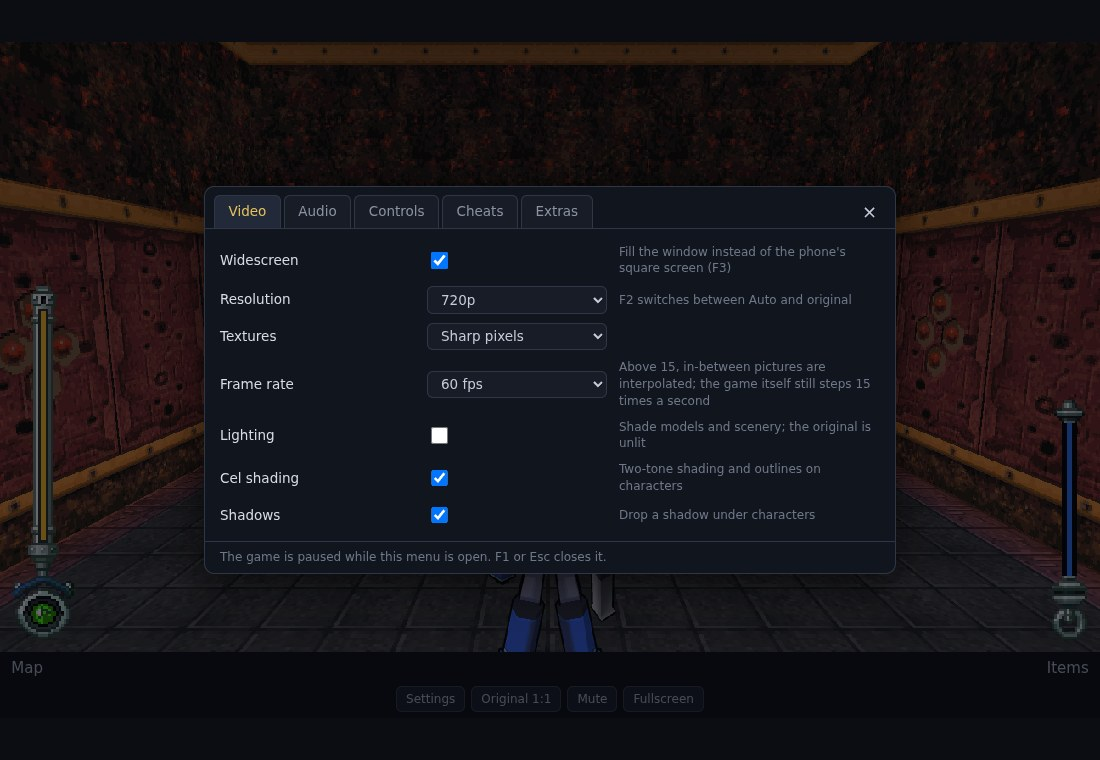
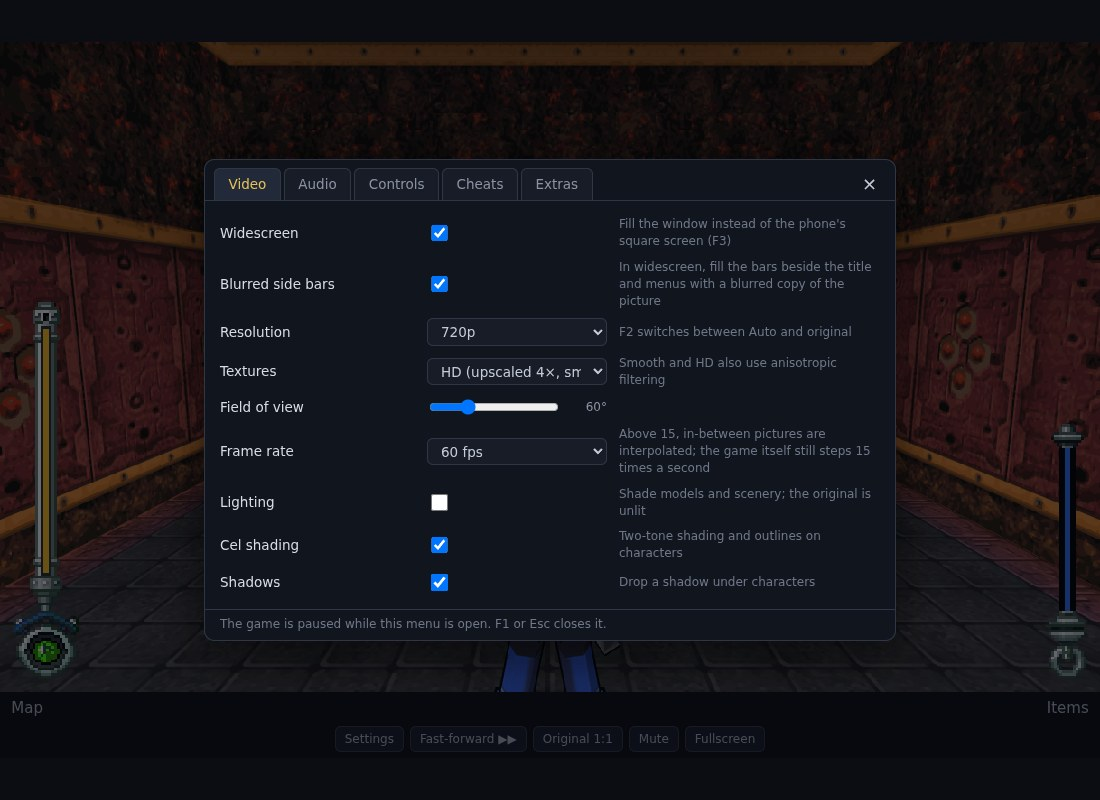
README: grouped feature list, new screenshots, controls and status brought up to date

diff --git a/README.md b/README.md
@@ -37,34 +37,53 @@ This project has three goals:
 
 ## What the port adds
 
-All of these are options in the settings menu (press **F1**); none change the game's rules.
+All of these are options in the settings menu (press **F1**, or the ⚙ button); none change the
+game's rules, and with everything off you get the phone's picture.
 
-- **Widescreen** — the 3D view fills the window; the life and weapon gauges move to the screen
-  edges.
+**Picture**
+
+- **Widescreen** — the 3D view fills the window and the life and weapon gauges move to the screen
+  edges. Screens that stay square (title, menus, map) get a blurred copy of the picture in the
+  side bars instead of black.
 - **High resolution** — sharp at any window size, or the original 240p if you prefer.
-- **Texture filtering** — original sharp pixels, smooth, or an upscaled "HD" mode.
-- **Blurred side bars** behind the title and menus in widescreen, instead of black.
 - **30 / 60 fps** — the game still thinks 15 times a second (every speed and timer in it is
   counted that way), so the in-between pictures are interpolated, the same way other recompiled
-  console ports do it.
-- **Free camera** — look around with the right stick or the mouse, with sensitivity, invert,
-  field of view and camera distance options.
+  console ports do it. Camera, objects and character animation are all smoothed.
+- **Texture filtering** — original sharp pixels, smooth, or an upscaled "HD" mode.
+- **Cel shading, lighting and shadows** — the original has no lighting at all.
+- **Field of view** and **camera distance** sliders.
+
+**Controls**
+
+- **Free camera** — look around with the right stick, by dragging the mouse, or with the mouse
+  captured (move to look, left button fires, right button locks on). Sensitivity and invert
+  options.
+- **Direct movement** — push the stick (or WASD) where you want to go, relative to the camera,
+  instead of turn-and-walk tank controls. The stick also sets your walking speed.
 - **Controller support** with rumble, and **rebindable** keyboard and controller buttons.
 - **Touch controls** — an on-screen stick and buttons, and swipe to look.
-- **Direct movement** — push the stick (or WASD) where you want to go, relative to the camera,
-  instead of turn-and-walk tank controls.
-- **Cel shading, lighting and shadows** — the original has no lighting at all.
-- **Fast-forward** for dialogue and cutscenes (a button under the game, or hold Tab / L3), and
-  **fast loading** (seconds instead of half a minute per area).
-- **Sampled music instruments** and separate music / effects volume.
+- **Fast-forward** for dialogue and cutscenes: a button under the game, or hold Tab / L3.
+
+**Sound**
+
+- **Sampled instruments** for the music, and separate music / effects volume.
+
+**Extras**
+
+- **Fast loading** — seconds instead of half a minute per area.
+- **Save export / import** — saves live in your browser; back them up or move them as a file.
 - **Cheats** — infinite life, infinite weapon energy, max zenny, game speed.
 - **Mega Man Legends 2 character models** — if you own that game's disc, its models can stand in
   for the phone's (see [below](#optional-legends-2-character-models)).
-- Saves are kept in your browser, and can be **exported and imported** as a file.
+- A small toolbar over the game in fullscreen, so settings and fast-forward stay in reach.
 
 | Cutscene with Legends 2 models and cel shading | Settings menu |
 |---|---|
 | ![Cutscene](docs/cutscene.jpg) | ![Settings](docs/settings.jpg) |
+
+| Title screen in widescreen, with blurred side bars | Touch controls |
+|---|---|
+| ![Title](docs/title.jpg) | ![Touch controls](docs/touch.jpg) |
 
 ## Getting the game
 
@@ -106,17 +125,22 @@ Everything here can be changed under Settings > Controls.
 | Action | Keyboard | Controller |
 |---|---|---|
 | Move / turn | Arrows or WASD | Left stick or D-pad; L1 / R1 turn |
-| Look around | Drag the mouse; R re-centres | Right stick; R3 re-centres |
+| Look around | Drag the mouse (or capture it: Settings > Controls); R re-centres | Right stick; R3 re-centres |
 | Jump | Space or X | A / Cross |
 | Buster | Z or J | X / Square |
 | Special weapon | C or K | Y / Triangle |
 | Lock-on | Shift, V or L | L2 / R2 |
 | Confirm | Enter | A / Cross or B / Circle |
-| Map / Back, Items | Q, E | Select, Start |
+| Map / Back, Items (the labels under the game; also clickable) | Q, E | Select, Start |
 | Fast-forward (hold; or click the button under the game) | Tab | L3 |
 | Settings | F1 | — |
 
 F2 original resolution, F3 widescreen, F4 cheats, M mute, F fullscreen.
+
+With "Direct movement" on (Settings > Controls), the movement keys and the left stick move
+relative to the camera instead of turning. With the mouse captured, the left button fires the
+buster and the right button locks on. On a phone or tablet, an on-screen stick and buttons appear
+over the game, and dragging a finger on the picture looks around.
 
 ## How it works
 
@@ -172,8 +196,9 @@ yet. Known rough edges:
   synthesised otherwise), not the phone's own sound source, so it does not sound like the phone.
 - Above 15 fps, the 2D layer (HUD, dialogue) still updates 15 times a second.
 - The settings menu cannot be driven from a controller.
-- The newer options were checked with screenshots and automated runs rather than long play
-  sessions.
+- Most options were checked with screenshots and automated runs rather than long play sessions.
+  Touch controls and mouse capture have only been tried with simulated input, not on real
+  devices, and nobody has yet judged the music by ear.
 
 ## Credits and legal
 
